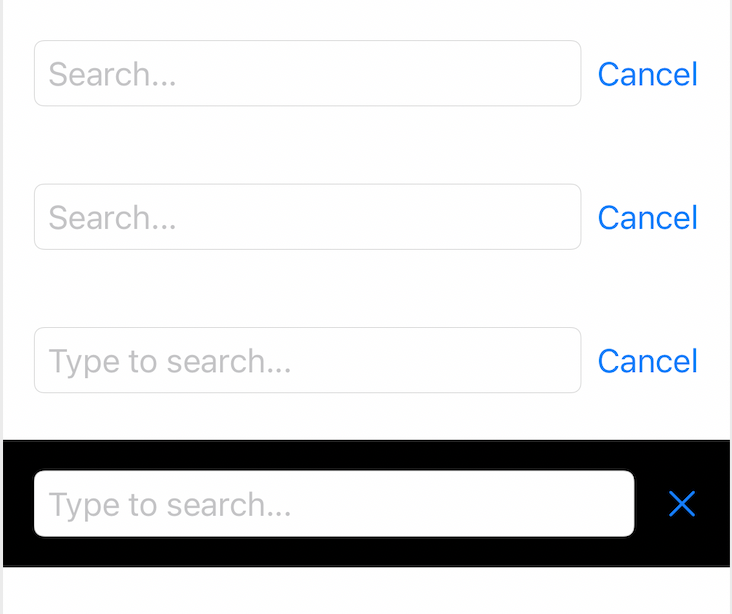
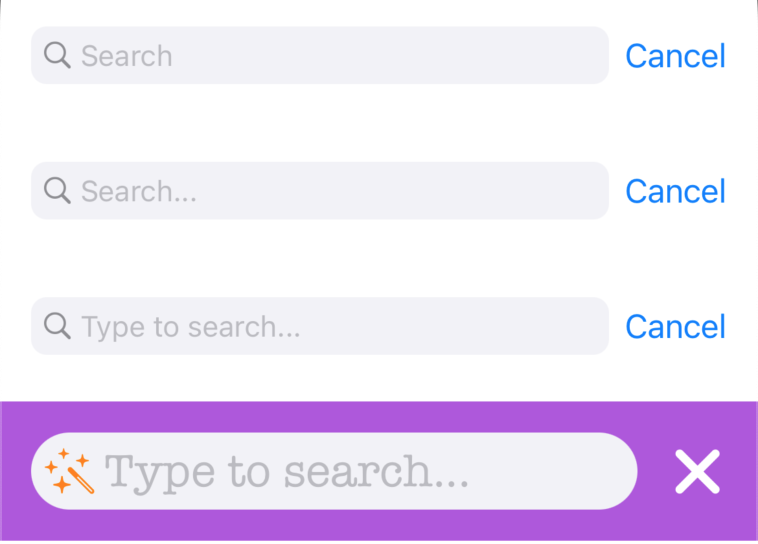
README

diff --git a/README.md b/README.md
@@ -46,21 +46,25 @@ var body: some View {
     VStack {
         
         SearchBarView(text: $searchText)
-    
+        
         SearchBarView(text: $searchText) {
             print("onCancel")
         }
-    
+        
         SearchBarView(title: "Type to search...", text: $searchText) {
             print("onCancel")
         }
-    
-        SearchBarView(title: "Type to search...", text: $searchText, showsCancelButton: true, cancelButtonLabel: { () -> AnyView in
-            AnyView(Image(systemName: "xmark"))
+        
+        SearchBarView(title: "Type to search...", text: $searchText, font: .custom("American Typewriter", size: 24), iconView: { () -> AnyView in
+            AnyView(Image(systemName: "wand.and.stars.inverse").foregroundColor(Color(.orange)))
+        }, showsCancelButton: true, cancelButtonLabel: { () -> AnyView in
+            AnyView(Image(systemName: "xmark").font(.system(size: 28, weight: .bold)).foregroundColor(.white))
         }, showsClearSearchButton: true, clearSearchButtonLabel: { () -> AnyView in
             AnyView(Text("Clear").bold().foregroundColor(.red))
+        }, textBackgroundView: { () -> AnyView in
+            AnyView(RoundedRectangle(cornerRadius: 32).foregroundColor(Color(.secondarySystemBackground)))
         }, backgroundView: { () -> AnyView in
-            AnyView(Color.black)
+            AnyView(Color.purple)
         }, spacing: 16) { (isTyping) in
             print("Is typing: \(isTyping)")
         } onCommit: {
@@ -81,6 +85,12 @@ Here's the created view:
 And when the user has typed something:
 
 <img src="../main/Sources/SearchBarView/SearchBarView1.png" width="350px">
+
+Also in Dark Appearance:
+
+<img src="../main/Sources/SearchBarView/SearchBarView2.png" width="350px">
+
+<img src="../main/Sources/SearchBarView/SearchBarView3.png" width="350px">
 
 ## ✍ Contact
 
